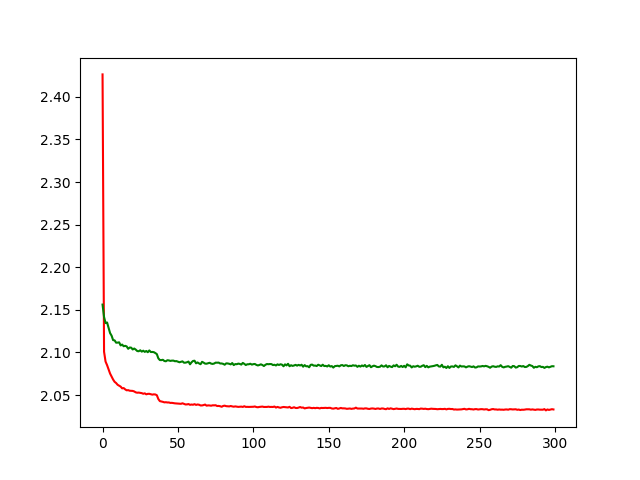
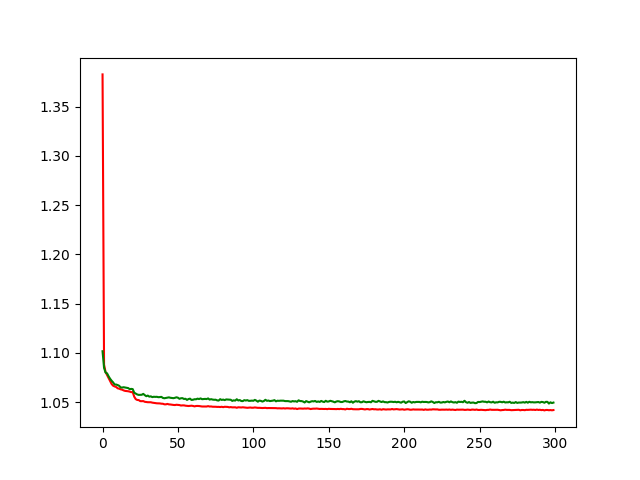
seting up

diff --git a/voxel_ae.py b/voxel_ae.py
@@ -24,22 +24,26 @@ class Encoder(nn.Module):
     def __init__(self, output_size, state_size, input_size):
         super(Encoder, self).__init__()
         self.encoder = nn.Sequential(
-            nn.Conv3d(in_channels=1,
-                      out_channels=32,
-                      kernel_size=[5, 5, 5],
-                      stride=[2, 2, 2]),
+            nn.Conv2d(in_channels=40,
+                      out_channels=16,
+                      kernel_size=[10, 10],
+                      stride=[2, 2]),
             # nn.BatchNorm2d(8),
             # nn.MaxPool3d(kernel_size=2),
             nn.PReLU(),
             # nn.ReLU(),
-            nn.Conv3d(in_channels=32,
+            nn.Conv2d(in_channels=16,
                       out_channels=32,
-                      kernel_size=[3, 3, 3],
-                      stride=[1, 1, 1]),
+                      kernel_size=[10, 10],
+                      stride=[2, 2]),
             # nn.BatchNorm2d(16),
-            nn.MaxPool3d(kernel_size=2),
+            # nn.MaxPool3d(kernel_size=2),
             nn.PReLU(),
-            # nn.ReLU(),
+            #nn.Conv2d(in_channels=32,
+            #          out_channels=32,
+             #         kernel_size=[5, 5],
+              #        stride=[2, 2]),
+            #nn.PReLU(),
             # nn.Conv3d(in_channels=16,
             #           out_channels=32,
             #           kernel_size=[3, 3, 3],
@@ -50,18 +54,18 @@ class Encoder(nn.Module):
         # self.encoder.apply(weights_init)
         # For accepting different input shapes
         # x = self.encoder(torch.autograd.Variable(torch.rand(input_size)))
-        x = self.encoder(torch.autograd.Variable(torch.rand([1] + input_size)))
+        x = self.encoder(torch.autograd.Variable(torch.rand([1]+input_size)))
         first_fc_in_features = 1
         for n in x.size()[1:]:
             first_fc_in_features *= n
         self.head = nn.Sequential(
             # nn.Linear(first_fc_in_features, 128),
-            nn.Linear(first_fc_in_features + state_size, 128),
+            nn.Linear(first_fc_in_features + state_size, 512),
             nn.PReLU(),
             nn.Dropout(),
-            nn.Linear(128, output_size),
-            nn.PReLU(),
-            nn.Dropout(),
+            #nn.Linear(128, output_size),
+            #nn.PReLU(),
+            #nn.Dropout(),
             # nn.Linear(128, output_size),
         )
         # self.head.apply(weights_init)

diff --git a/test_network.py b/test_network.py
@@ -55,7 +55,7 @@ def format_data(obs, inputs, targets):
 
 
 if __name__=="__main__":
-    modelPath = '/root/my_workspace/data/trained_models/mpnet_epoch_99.pkl'
+    modelPath = '/root/my_workspace/data/new_trained_models/mpnet_epoch_99.pkl'
     testDataPath='/root/my_workspace/data/test_network/'
     folder_loc = '/root/my_workspace/data/main_train/train/'
     # saveTorchScriptModel = '/root/data/grid_world_2_0_06/trained_models/mpnet_model_289.pt'
@@ -63,7 +63,7 @@ if __name__=="__main__":
     network_param = {
         "normalize": normalize,
         "denormalize": unnormalize,
-        "encoderInputDim": [1, 40, 40, 40],
+        "encoderInputDim": [40, 40, 40],
         "encoderOutputDim": 128,
         "worldSize": [1.73, 1.73, 1.73],
         "AE": voxelNet,
@@ -100,8 +100,8 @@ if __name__=="__main__":
     new_costmap = np.ones((40,40,40))
     new_costmap[10-mx:30-mx,10-my:30-my,10-mz:30-mz] = costmap
 
-    obs = np.ones((1, 1, 40, 40, 40))
-    obs[0,0,:,:,:] = new_costmap
+    obs = np.ones((1, 40, 40, 40))
+    obs[0, :,:,:] = new_costmap
     # obs = costmap[0]
     # print("Costmap, before reshaping: ",obs)
     # print("Shape before for costmap: ",obs.shape)

diff --git a/save_torchScript.py b/save_torchScript.py
@@ -9,13 +9,13 @@ from misc import normalize, unnormalize
 
 
 if __name__=="__main__":
-    modelPath = '/root/my_workspace/data/trained_models/mpnet_epoch_299.pkl'
-    saveTorchScriptModel = '/root/my_workspace/data/trained_models/mpnet_model_299.pt'
+    modelPath = '/root/my_workspace/data/new_trained_models/mpnet_epoch_49.pkl'
+    saveTorchScriptModel = '/root/my_workspace/data/new_trained_models/mpnet_model_49.pt'
 
     network_param = {
         "normalize": normalize,
         "denormalize": unnormalize,
-        "encoderInputDim": [1, 40, 40, 40],
+        "encoderInputDim": [40, 40, 40],
         "encoderOutputDim": 128,
         "worldSize": [1.73, 1.73, 1.73],
         "AE": voxelNet,

diff --git a/main_train.py b/main_train.py
@@ -31,7 +31,7 @@ def train(args):
     network_parameters = {
         'normalize': normalize,
         'denormalize': denormalize,
-        'encoderInputDim': [1, 40, 40, 40],
+        'encoderInputDim': [40, 40, 40],
         'encoderOutputDim': 128,
         # 'worldSize': [27, 27, np.pi],
         'worldSize' : [1.73, 1.73, 1.73],
@@ -48,7 +48,7 @@ def train(args):
         learning_rate=3e-4,
         **network_parameters
     )
-    trainNetwork.set_model_train_epoch(119)
+    #trainNetwork.set_model_train_epoch(99)
     # debug_memory()
     trainNetwork.train(numEnvsTrain=150000,
                        numEnvsTest=1000,

diff --git a/my_data_loader.py b/my_data_loader.py
@@ -59,7 +59,7 @@ class ThreedIterDataset(torch.utils.data.IterableDataset):
         
         localtraj = np.copy(traj)
 
-        obs = np.ones((1, 40, 40, 40))
+        obs = np.ones((40, 40, 40))
         inputs = np.zeros((1, 6))
         targets = np.zeros((1, 3))
 
@@ -72,7 +72,7 @@ class ThreedIterDataset(torch.utils.data.IterableDataset):
         new_costmap = np.ones((40,40,40))
         new_costmap[10-mx:30-mx,10-my:30-my,10-mz:30-mz] = costmap
         
-        obs[0,:,:,:] = new_costmap
+        obs[:,:,:] = new_costmap
         inputs = np.concatenate((localtraj[i], goal))
         targets = localtraj[i+1]    
 

diff --git a/plot.py b/plot.py
@@ -2,7 +2,7 @@ import csv
 import matplotlib.pyplot as plt
 import numpy as np
 
-datafile = open('/root/my_workspace/data/trained_models/progress.csv', 'r')
+datafile = open('/root/my_workspace/data/new_trained_models/progress.csv', 'r')
 myreader = csv.reader(datafile)
 
 array_test = []
@@ -19,5 +19,5 @@ for row in myreader:
 # print(array)
 plt.plot(array_train,'r')
 plt.plot(array_test,'g')
-plt.savefig('losses.png')
+plt.savefig('loss_new.png')
     

diff --git a/model.py b/model.py
@@ -45,7 +45,8 @@ class MLP(nn.Module):
             # nn.Linear(256, 256),
             # nn.PReLU(),
             # nn.Dropout(),
-            nn.Linear(input_size, 256),
+            #nn.Linear(512, output_size),
+            nn.Linear(512, 256),
             nn.PReLU(),
             nn.Dropout(),
             nn.Linear(256, 128),
